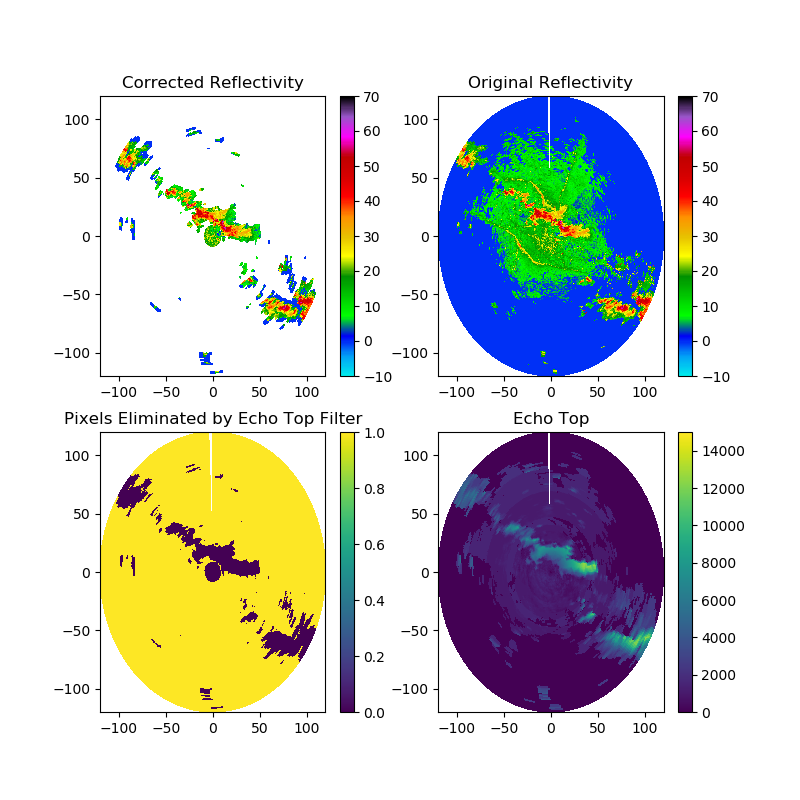
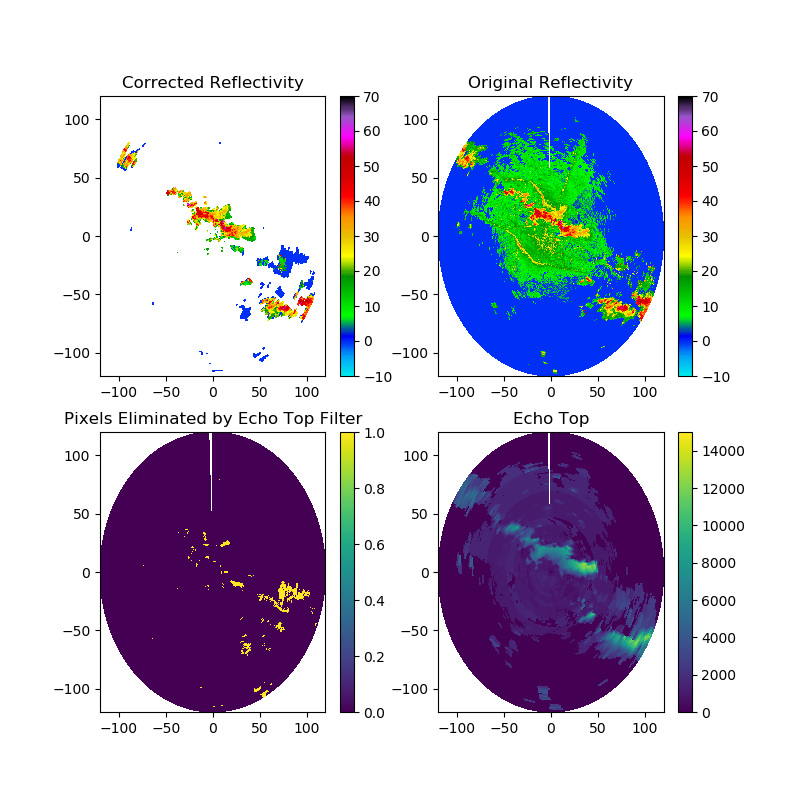
Bug fixes in interference filter

diff --git a/src/python/radar_qc_module.py b/src/python/radar_qc_module.py
@@ -816,7 +816,7 @@ def main_qc( filename , options ) :
                                             , radar.range['data'] , options[filter_name] ) 
 
 
-      output['qcref'][ np.abs( tmp_ref - output['cref'] ) > 0 ]=options[filter_name]['code']
+      output['qcref'][ np.abs( output['ref'] - output['cref'] ) > 0 ]=options[filter_name]['code']
 
       end=time.time()
  
@@ -1237,6 +1237,8 @@ def interference_filter ( ref , undef , min_ref , r , my_conf )  :
    
    #offset=my_conf['offset']
    att=my_conf['att']
+   AzimuthFilter=my_conf['AzimuthFilter']
+   ElevationFilter=my_conf['ElevationFilter']
    npass_filter=my_conf['npass_filter']
    percent_valid_threshold=my_conf['percent_valid_threshold']
    corr_threshold=my_conf['corr_threshold']
@@ -1285,21 +1287,30 @@ def interference_filter ( ref , undef , min_ref , r , my_conf )  :
               powerrayo = np.zeros( nr ) + 20.0 * np.log10( r ) + 2.0 * att * r
 
            #print( np.shape( powerrayo ),np.shape( local_ref )
-           
-           corrcoef=np.corrcoef( powerrayo[undef_mask][inlier_mask],local_ref[undef_mask][inlier_mask] )[0,1]
 
-           if (k == 0) and (i == 348) :
-             plt.plot(  powerrayo[undef_mask] , local_ref[undef_mask] ,'or')
-             plt.plot(  powerrayo[undef_mask][inlier_mask],local_ref[undef_mask][inlier_mask] , 'ok')
-             plt.show()
-             print(corrcoef,np.sum( inlier_mask.astype(int) )/nr )
+           if ( np.sum( inlier_mask.astype(int) ) >= 10 ) & ( np.std(local_ref[undef_mask][inlier_mask]) > 0 ) :
            
-             plt.plot( r[undef_mask] , powerrayo[undef_mask] )
-             plt.plot( r[undef_mask][inlier_mask] , local_ref[undef_mask][inlier_mask] ,'ok' )
-             plt.plot( r[undef_mask] , local_ref[undef_mask])
-             plt.show()
+              corrcoef=np.corrcoef( powerrayo[undef_mask][inlier_mask],local_ref[undef_mask][inlier_mask] )[0,1]
+
+           else                                      :
+
+              corrcoef=-1.0
+
+           #if (k == 0) and (i == 348) :
+           #  plt.plot(  powerrayo[undef_mask] , local_ref[undef_mask] ,'or')
+           #  plt.plot(  powerrayo[undef_mask][inlier_mask],local_ref[undef_mask][inlier_mask] , 'ok')
+           #  plt.show()
+           #  print(corrcoef,np.sum( inlier_mask.astype(int) )/nr )
+           
+           #  plt.plot( r[undef_mask] , powerrayo[undef_mask] )
+           #  plt.plot( r[undef_mask][inlier_mask] , local_ref[undef_mask][inlier_mask] ,'ok' )
+           #  plt.plot( r[undef_mask] , local_ref[undef_mask])
+           #  plt.show()
+
 
            if( ( corrcoef > corr_threshold ) & ( np.sum( inlier_mask.astype(int) )/( nr-offset ) > percent_ref_threshold ) )  :
+
+              
               #This means that this ray is likely to be contaminated by interference.
 
               undef_mask = ( tmp_z[i,:,k] != undef )
@@ -1317,14 +1328,14 @@ def interference_filter ( ref , undef , min_ref , r , my_conf )  :
               tmp_mask = np.logical_and( tmp_z[i,:,k] - zrayo <= 5.0 , undef_mask )
               ref[i, tmp_mask ,k] = min_ref
 
-              if (k == 0) and (i == 348) :
-                 plt.plot( r[undef_mask] , tmp_z[i,:,k][undef_mask] )
-                 plt.plot( r[undef_mask] , z[undef_mask]      ,'ok' )
-                 plt.plot( r[undef_mask] , zrayo[undef_mask])
-                 plt.show()
+              #if (k == 0) and (i == 348) :
+              #   plt.plot( r[undef_mask] , tmp_z[i,:,k][undef_mask] )
+              #   plt.plot( r[undef_mask] , z[undef_mask]      ,'ok' )
+              #   plt.plot( r[undef_mask] , zrayo[undef_mask])
+              #   plt.show()
 
-           else :
-              print(i,k)
+           #else :
+              #print(i,k)
 
    #Additional filter for the remaining echoes
    #consider cyclic boundary conditions in azimuth.
@@ -1333,61 +1344,63 @@ def interference_filter ( ref , undef , min_ref , r , my_conf )  :
       for k in range(ne) :
 
          for i in range(na) :
-            if ( i > 1 ) & ( i < na-2 ) :
+            if  AzimuthFilter         :  #DETECT ISOLATED PIXELS IN AZIMUTH
 
-            #DETECT ISOLATED PIXELS IN AZIMUTH
+               if ( i > 1 ) & ( i < na-2 ) :
  
-               #If we have reflectivity in only one ray but not in the neighbors this suggest an interference pattern.
-               tmp_mask = np.logical_and( ref[i-1,:,k] <= min_ref , ref[i+1,:,k] <= min_ref )
-               ref[i,:,k][ np.logical_and( tmp_mask , ref[i,:,k] > min_ref ) ] = min_ref
+                  #If we have reflectivity in only one ray but not in the neighbors this suggest an interference pattern.
+                  tmp_mask = np.logical_and( ref[i-1,:,k] <= min_ref , ref[i+1,:,k] <= min_ref )
+                  ref[i,:,k][ np.logical_and( tmp_mask , ref[i,:,k] > min_ref ) ] = min_ref
 
-               tmp_mask = np.logical_and( ref[i-2,:,k] <= min_ref , ref[i+2,:,k] <= min_ref )
-               ref[i,:,k][ np.logical_and( tmp_mask , ref[i,:,k] > min_ref ) ] = min_ref
+                  tmp_mask = np.logical_and( ref[i-2,:,k] <= min_ref , ref[i+2,:,k] <= min_ref )
+                  ref[i,:,k][ np.logical_and( tmp_mask , ref[i,:,k] > min_ref ) ] = min_ref
+ 
+               elif  i==na-1   :
+                  tmp_mask = np.logical_and( ref[i-1,:,k] <= min_ref , ref[0,:,k] <= min_ref )
+                  ref[i,:,k][ np.logical_and( tmp_mask , ref[i,:,k] > min_ref ) ] = min_ref
 
-            elif  i==na-1   :
-               tmp_mask = np.logical_and( ref[i-1,:,k] <= min_ref , ref[0,:,k] <= min_ref )
-               ref[i,:,k][ np.logical_and( tmp_mask , ref[i,:,k] > min_ref ) ] = min_ref
+                  tmp_mask = np.logical_and( ref[i-2,:,k] <= min_ref , ref[1,:,k] <= min_ref )
+                  ref[i,:,k][ np.logical_and( tmp_mask , ref[i,:,k] > min_ref ) ] = min_ref
 
-               tmp_mask = np.logical_and( ref[i-2,:,k] <= min_ref , ref[1,:,k] <= min_ref )
-               ref[i,:,k][ np.logical_and( tmp_mask , ref[i,:,k] > min_ref ) ] = min_ref
+               elif  i==na-3   :
+                  tmp_mask = np.logical_and( ref[i-1,:,k] <= min_ref , ref[i,:,k] <= min_ref )
+                  ref[i,:,k][ np.logical_and( tmp_mask , ref[i,:,k] > min_ref ) ] = min_ref
 
-            elif  i==na-3   :
-               tmp_mask = np.logical_and( ref[i-1,:,k] <= min_ref , ref[i,:,k] <= min_ref )
-               ref[i,:,k][ np.logical_and( tmp_mask , ref[i,:,k] > min_ref ) ] = min_ref
+                  tmp_mask = np.logical_and( ref[i-2,:,k] <= min_ref , ref[0,:,k] <= min_ref )
+                  ref[i,:,k][ np.logical_and( tmp_mask , ref[i,:,k] > min_ref ) ] = min_ref
 
-               tmp_mask = np.logical_and( ref[i-2,:,k] <= min_ref , ref[0,:,k] <= min_ref )
-               ref[i,:,k][ np.logical_and( tmp_mask , ref[i,:,k] > min_ref ) ] = min_ref
+               elif  i==0      :
 
-            elif  i==0      :
-               tmp_mask = np.logical_and( ref[na-1,:,k] <= min_ref , ref[i+1,:,k] <= min_ref )
-               ref[i,:,k][ np.logical_and( tmp_mask , ref[i,:,k] > min_ref ) ] = min_ref
+                  tmp_mask = np.logical_and( ref[na-1,:,k] <= min_ref , ref[i+1,:,k] <= min_ref )
+                  ref[i,:,k][ np.logical_and( tmp_mask , ref[i,:,k] > min_ref ) ] = min_ref
 
-               tmp_mask = np.logical_and( ref[na-2,:,k] <= min_ref , ref[i+2,:,k] <= min_ref )
-               ref[i,:,k][ np.logical_and( tmp_mask , ref[i,:,k] > min_ref ) ] = min_ref
+                  tmp_mask = np.logical_and( ref[na-2,:,k] <= min_ref , ref[i+2,:,k] <= min_ref )
+                  ref[i,:,k][ np.logical_and( tmp_mask , ref[i,:,k] > min_ref ) ] = min_ref
 
-            elif  i==1      :
-               tmp_mask = np.logical_and( ref[i-1,:,k] <= min_ref , ref[i+1,:,k] <= min_ref )
-               ref[i,:,k][ np.logical_and( tmp_mask , ref[i,:,k] > min_ref ) ] = min_ref
+               elif  i==1      :
 
-               tmp_mask = np.logical_and( ref[na-1,:,k] <= min_ref , ref[i+2,:,k] <= min_ref )
-               ref[i,:,k][ np.logical_and( tmp_mask , ref[i,:,k] > min_ref ) ] = min_ref
+                  tmp_mask = np.logical_and( ref[i-1,:,k] <= min_ref , ref[i+1,:,k] <= min_ref )
+                  ref[i,:,k][ np.logical_and( tmp_mask , ref[i,:,k] > min_ref ) ] = min_ref
 
-            #DETECT ISOLATED PIXELS IN ELEVATION
+                  tmp_mask = np.logical_and( ref[na-1,:,k] <= min_ref , ref[i+2,:,k] <= min_ref )
+                  ref[i,:,k][ np.logical_and( tmp_mask , ref[i,:,k] > min_ref ) ] = min_ref
 
-            if ( k > 0 ) & ( k < ne-1 ) :
+            if ElevationFilter         :   #DETECT ISOLATED PIXELS IN ELEVATION
 
-               tmp_mask = np.logical_and( ref[i,:,k-1] <= min_ref , ref[i,:,k+1] <= min_ref )
-               ref[i,:,k][ np.logical_and( tmp_mask , ref[i,:,k] > min_ref ) ] = min_ref
+               if ( k > 0 ) & ( k < ne-1 ) :
 
-            if ( k > 0 )                :
+                  tmp_mask = np.logical_and( ref[i,:,k-1] <= min_ref , ref[i,:,k+1] <= min_ref )
+                  ref[i,:,k][ np.logical_and( tmp_mask , ref[i,:,k] > min_ref ) ] = min_ref
 
-               tmp_mask = ( ref[i,:,k+2] <= min_ref , ref[i,:,k+1] <= min_ref )
-               ref[i,:,k][ np.logical_and( tmp_mask , ref[i,:,k] > min_ref ) ] = min_ref
+               if ( k == 0 )                :
 
-            if ( k == ne-1 )            :
+                  tmp_mask = np.logical_and( ref[i,:,k+2] <= min_ref , ref[i,:,k+1] <= min_ref )
+                  ref[i,:,k][ np.logical_and( tmp_mask , ref[i,:,k] > min_ref ) ] = min_ref
 
-               tmp_mask = np.logical_and( ref[i,:,k-2] <= min_ref , ref[i,:,k-1] <= min_ref )
-               ref[i,:,k][ np.logical_and( tmp_mask , ref[i,:,k] > min_ref ) ] = min_ref
+               if ( k == ne-1 )            :
+
+                  tmp_mask = np.logical_and( ref[i,:,k-2] <= min_ref , ref[i,:,k-1] <= min_ref )
+                  ref[i,:,k][ np.logical_and( tmp_mask , ref[i,:,k] > min_ref ) ] = min_ref
 
    return ref
 

diff --git a/conf_gematronik.py b/conf_gematronik.py
@@ -80,13 +80,13 @@ options[filter_name]['code']=43
 
 filter_name='RhoFilter'
 options[filter_name]=dict()
-options[filter_name]['flag']=False                          #Enable / disable filter
+options[filter_name]['flag']=True                          #Enable / disable filter
 options[filter_name]['nx']=2                                #NX
 options[filter_name]['ny']=2                                #NY
 options[filter_name]['nz']=0                                #NZ
 options[filter_name]['save']=True                           #Save filter aux fields to output?
-options[filter_name]['ify']=np.array([1,1,0,0])             #Importance function y
-options[filter_name]['ifx']=np.array([-2,0.5,0.8,2])        #Importance function x
+options[filter_name]['ify']=np.array([1,1,1,0,0])           #Importance function y
+options[filter_name]['ifx']=np.array([-2,0.5,0.8,0.85,2])   #Importance function x
 options[filter_name]['w']=1.0                               #Relative parameter weigth. 
 options[filter_name]['code']=10
 options[filter_name]['force']=False                         #Wether we will reject data based on this filter alone.
@@ -117,7 +117,7 @@ options[filter_name]['force_value']=0.5                     #Threshold for force
 
 filter_name='EchoTopFilter'
 options[filter_name]=dict()
-options[filter_name]['flag']=False                          #Enable / disable filter
+options[filter_name]['flag']=True                          #Enable / disable filter
 options[filter_name]['nx']=2                                #NX
 options[filter_name]['ny']=2                                #NY
 options[filter_name]['nz']=0                                #NZ
@@ -272,7 +272,7 @@ options[filter_name]['force_value']=0.5                        #Threshold for fo
 #Low doppler velocity filter            ==============================================================
 filter_name='LowDopplerFilter'
 options[filter_name]=dict()
-options[filter_name]['flag']=True                             #Enable / Disable filter
+options[filter_name]['flag']=False                             #Enable / Disable filter
 options[filter_name]['nx']=0                                   #NX
 options[filter_name]['ny']=0                                   #NY
 options[filter_name]['nz']=0                                   #NZ
@@ -290,17 +290,21 @@ options[filter_name]['use_terrain']=True                       #Wether AGL heigh
 #This filter is not included in the Fuzzy-logic approach.
 filter_name='InterferenceFilter'
 options[filter_name]=dict()
-options[filter_name]['flag']=False                             #Enable / Disable filter
+options[filter_name]['flag']=True                             #Enable / Disable filter
 options[filter_name]['save']=True                              #Save filter aux fields to output?
 options[filter_name]['nx']=0                                   #NX
 options[filter_name]['ny']=4                                   #NY
 options[filter_name]['nz']=0                                   #NZ
 options[filter_name]['code']= 20
-options[filter_name]['att']=0.01e-3                            #Atmospheric gases attenuation constant.
+options[filter_name]['att']=0.01e-3                            #Atmospheric gases attenuation constant (dB / km )
 options[filter_name]['Smooth_Ref']=True                        #Smooth reflectivity before applying robust regression
-options[filter_name]['npass_filter']=0                         #Number of passes of the azimuthal continuity filter.
+options[filter_name]['Power_Regression']=True                  #Wether robust regression will be performed in Dbz scale or linear scale
+options[filter_name]['offset']=100                             #Number of pixels from radar location that will be ignored in the regression.
+options[filter_name]['AzimuthFilter']=True                     #Enable filter to remove isolated pixels in azimuth.
+options[filter_name]['ElevationFilter']=True                   #Enable filter to remove isolated pixels in elevation.
+options[filter_name]['npass_filter']=2                         #Number of passes of the azimuthal continuity filter.
 options[filter_name]['percent_valid_threshold']=0.1            #Rays with valid pixels over this percentaje will be examinated.
-options[filter_name]['corr_threshold']=0.5                     #Rays that correlates well with the interference pattern will be flagged as 
+options[filter_name]['corr_threshold']=0.7                     #Rays that correlates well with the interference pattern will be flagged as 
                                                                #contaminated.
 options[filter_name]['ref_threshold']=5.0                      #Reflectivity threshold to count pixels which are close to the interference pattern.
 options[filter_name]['percent_ref_threshold']=0.3              #If more than this percent of the ray correlates well with the interference pattern, then

diff --git a/conf_rma.py b/conf_rma.py
@@ -301,6 +301,9 @@ options[filter_name]['att']=0.01e-3                            #Atmospheric gase
 options[filter_name]['Smooth_Ref']=True                        #Smooth reflectivity before applying robust regression
 options[filter_name]['Power_Regression']=True                  #Wether robust regression will be performed in Dbz scale or linear scale
 options[filter_name]['offset']=200                             #Number of pixels from radar location that will be ignored in the regression.
+options[filter_name]['AzimuthFilter']=True                     #Enable filter to remove isolated pixels in azimuth.
+options[filter_name]['ElevationFilter']=True                   #Enable filter to remove isolated pixels in elevation.
+options[filter_name]['ElevationFilter']=True
 options[filter_name]['npass_filter']=2                         #Number of passes of the azimuthal continuity filter.
 options[filter_name]['percent_valid_threshold']=0.1            #Rays with valid pixels over this percentaje will be examinated.
 options[filter_name]['corr_threshold']=0.5                     #Rays that correlates well with the interference pattern will be flagged as 

diff --git a/test_radar_qc_gematronik.py b/test_radar_qc_gematronik.py
@@ -61,7 +61,7 @@ if conf.options['LowElevFilter']['flag'] :
 if conf.options['LowDopplerFilter']['flag'] :
    qcpt.plot_lowdopplerfilter( qc_output , conf.options , figname='LowDopplerFilter.png' , elev=elev )
 if conf.options['InterferenceFilter']['flag'] :
-   qcpt.plot_interferencefilter( qc_output , conf.options , figname='InterferenceFilter.png' , elev=elev )
+   qcpt.plot_interferencefilter( qc_output , conf.options , figname='InterferenceFilter.png' , elev=elev , show=True )
 
 
 
